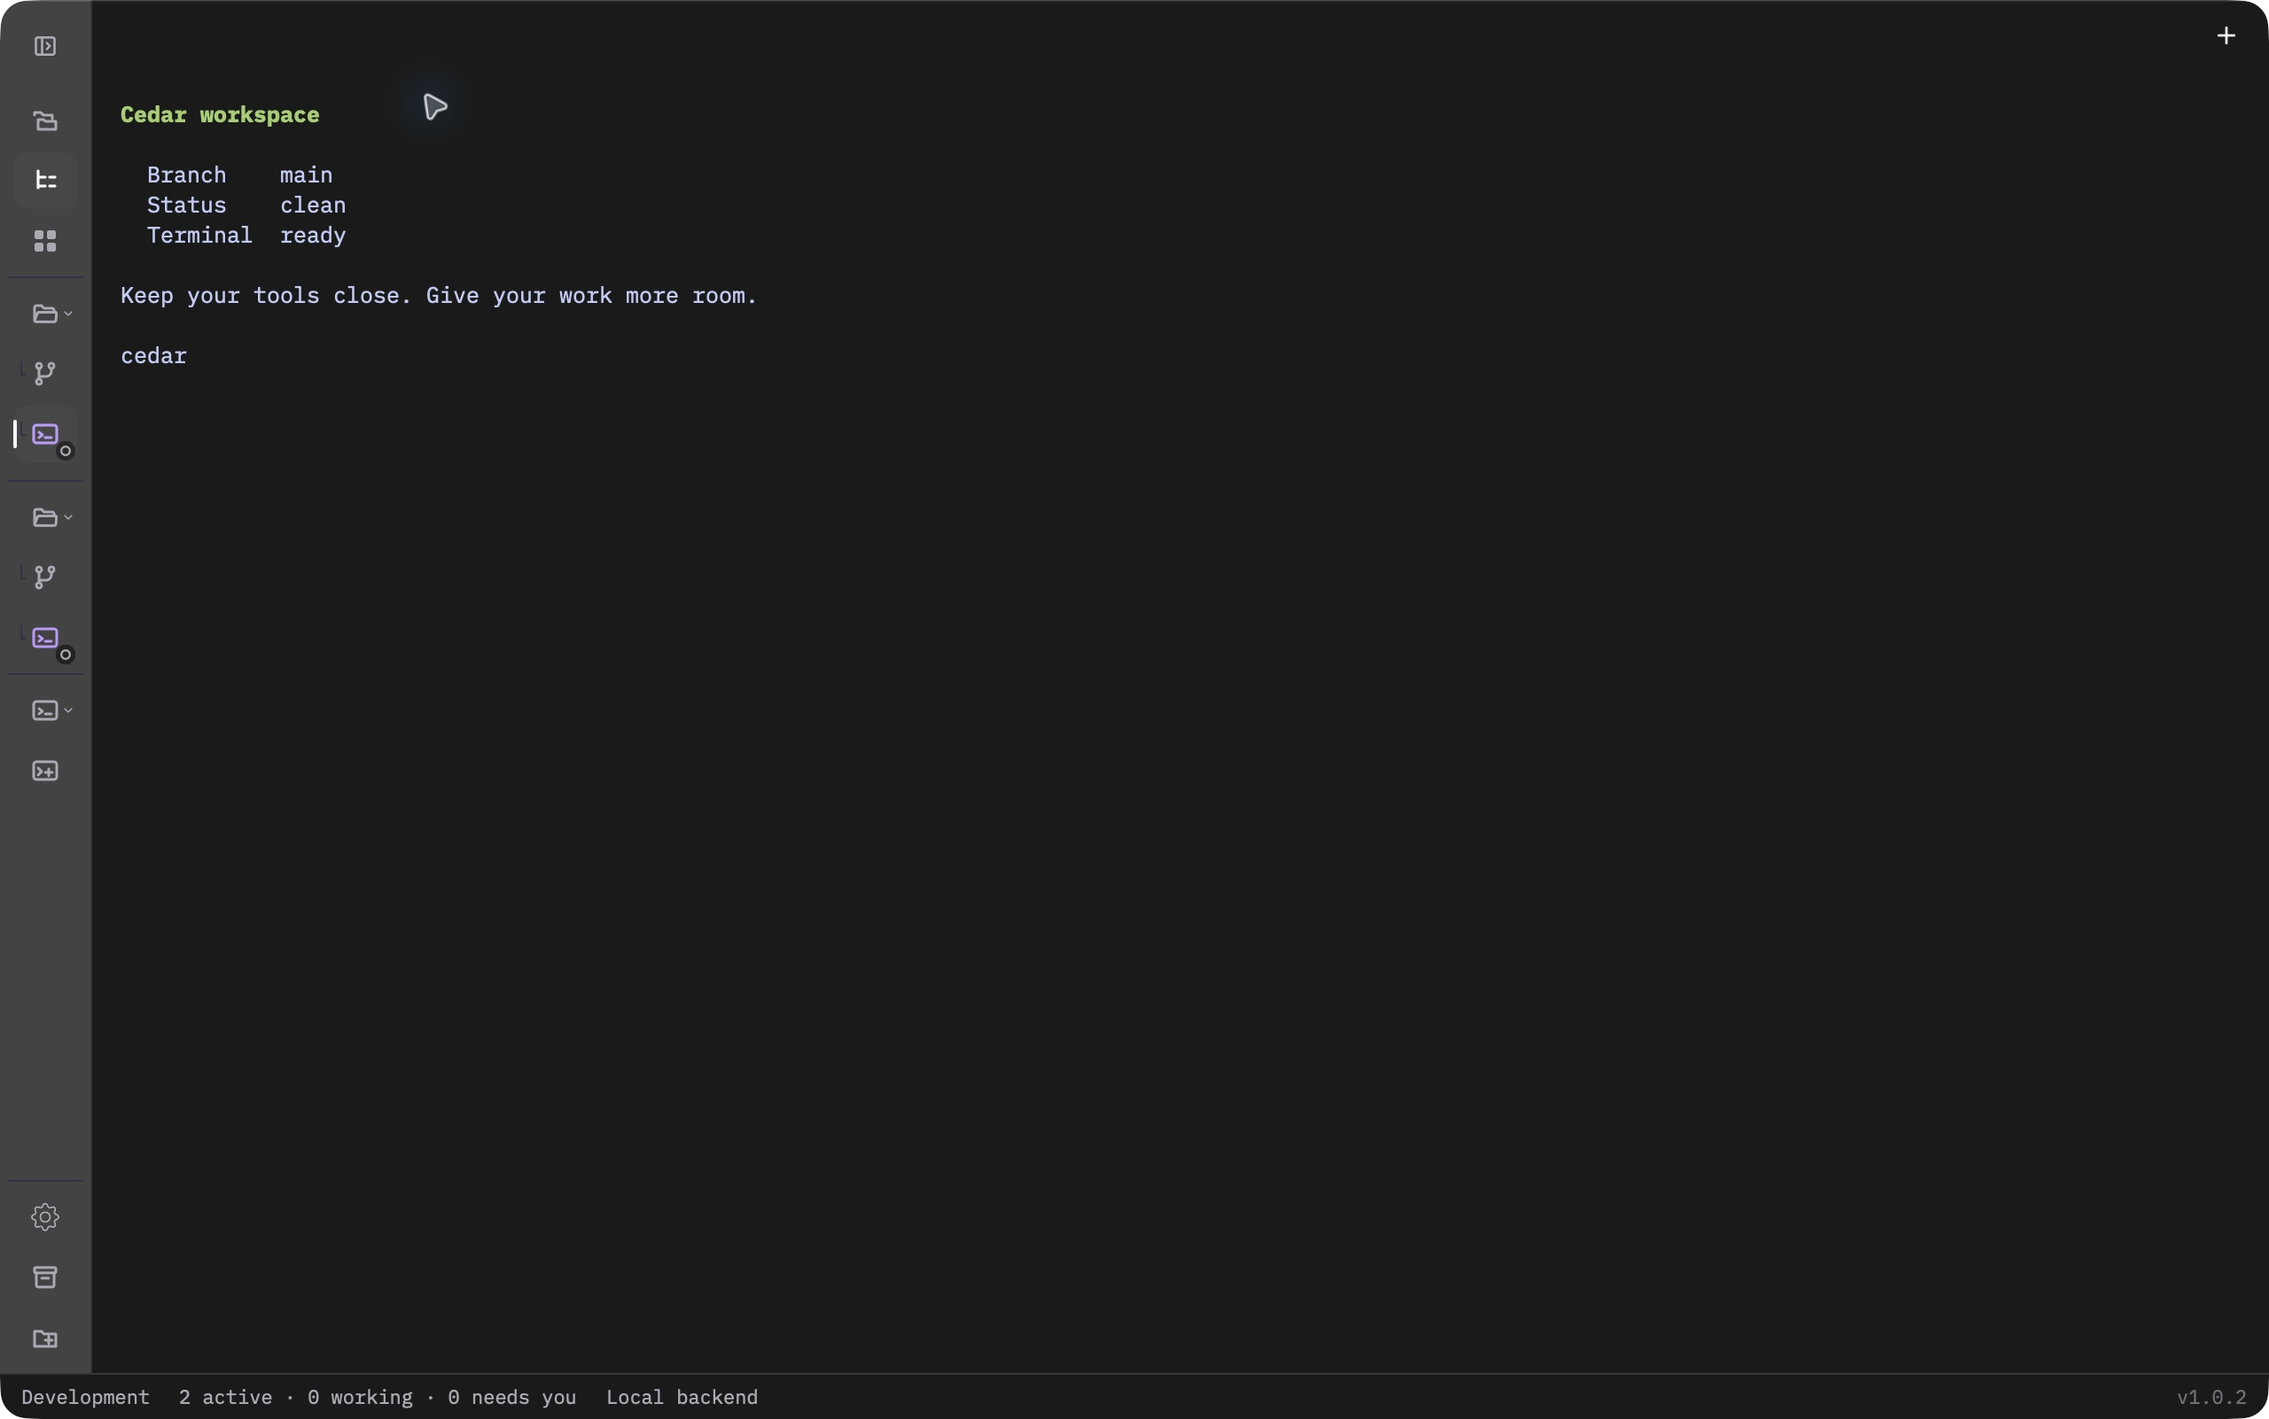
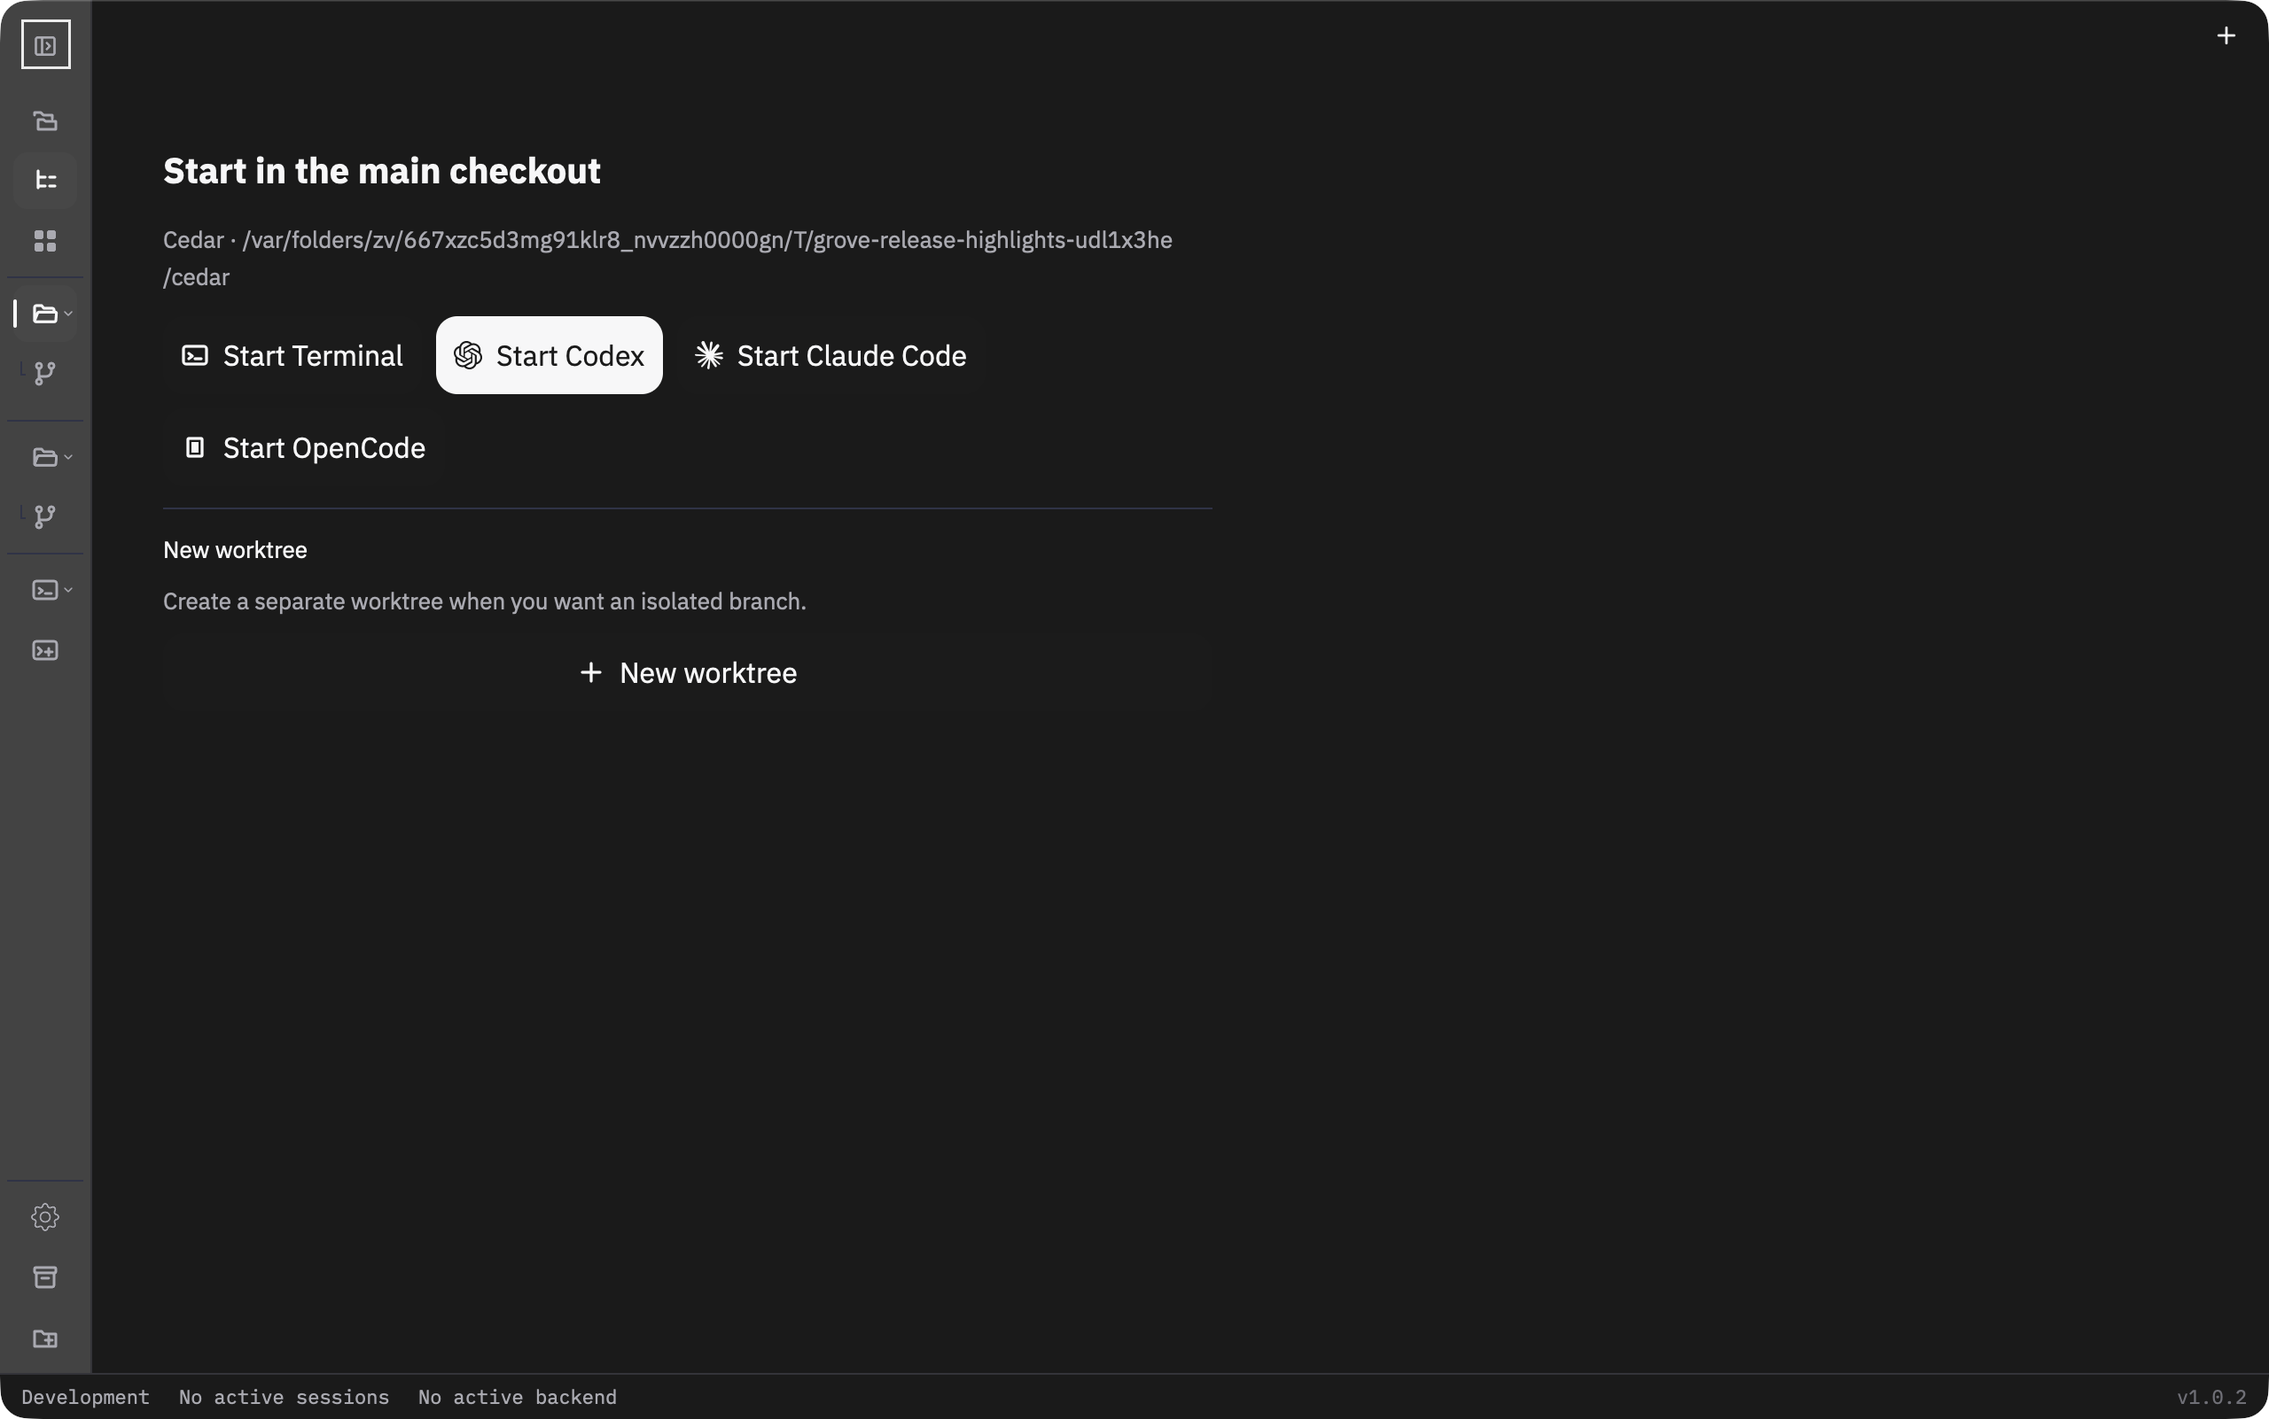
Add zoomed expand-collapse GIF to release highlights

diff --git a/src/views/release_highlights.rs b/src/views/release_highlights.rs
@@ -217,9 +217,21 @@ impl Render for ReleaseCarousel {
                 let image_source = gpui::ImageSource::from(gpui::SharedString::from(source));
                 #[cfg(test)]
                 let image_source = self.image_source_override.clone().unwrap_or(image_source);
+                let image_width = (width - 2.0).max(0.0);
+                let (image_width, image_height, image_left, image_top) = match &slide.media.frame {
+                    Some(frame) => {
+                        let image_width = image_width * frame.zoom;
+                        let image_height = image_width / frame.aspect_ratio;
+                        (image_width, image_height,
+                            -(image_width - (width - 2.0)).max(0.0) * frame.position_x,
+                            -(image_height - media_height).max(0.0) * frame.position_y)
+                    }
+                    None => (image_width, media_height, 0.0, 0.0),
+                };
+                let image_radius = RADIUS_CHROME * slide.media.frame.as_ref().map_or(1.0, |frame| frame.zoom);
                 let retry_source = image_source.clone();
                 let carousel = cx.entity().downgrade();
-                img(image_source).id(format!("highlights-image-{}-{}", self.index, animated)).debug_selector(|| "highlights-image".into()).absolute().inset_0().w(rpx((width - 2.0).max(0.0))).h(rpx(media_height)).rounded(rpx(RADIUS_CHROME)).object_fit(gpui::ObjectFit::Contain)
+                img(image_source).id(format!("highlights-image-{}-{}", self.index, animated)).debug_selector(|| "highlights-image".into()).absolute().left(rpx(image_left)).top(rpx(image_top)).w(rpx(image_width)).h(rpx(image_height)).rounded(rpx(image_radius)).object_fit(gpui::ObjectFit::Contain)
                     .with_fallback(move || {
                         let source = retry_source.clone(); let key_source = retry_source.clone(); let key_carousel = carousel.clone(); let carousel = carousel.clone();
                         div().size_full().flex().flex_col().gap(rpx(SPACE_LG)).items_center().justify_center().text_color(c::FG_DIM())
@@ -232,6 +244,26 @@ impl Render for ReleaseCarousel {
             },
             _ => unavailable(),
         });
+        if let Some(frame) = &slide.media.frame {
+            if let Some([left, top, marker_width, marker_height]) = frame.highlight {
+                let image_width = (width - 2.0).max(0.0) * frame.zoom;
+                let image_height = image_width / frame.aspect_ratio;
+                let image_left = -(image_width - (width - 2.0)).max(0.0) * frame.position_x;
+                let image_top = -(image_height - media_height).max(0.0) * frame.position_y;
+                media = media.child(
+                    div()
+                        .debug_selector(|| "highlights-image-focus".into())
+                        .absolute()
+                        .left(rpx(image_left + image_width * left))
+                        .top(rpx(image_top + image_height * top))
+                        .w(rpx(image_width * marker_width))
+                        .h(rpx(image_height * marker_height))
+                        .rounded(rpx(RADIUS_CONTROL))
+                        .border_2()
+                        .border_color(c::FG()),
+                );
+            }
+        }
         match slide.media.kind {
             MediaKind::Gif if !cx.reduce_motion() => {
                 media = media.child(
@@ -467,6 +499,7 @@ mod tests {
                         alt: "Feature preview".into(),
                         poster: None,
                         captions: None,
+                        frame: None,
                     },
                 })
                 .collect(),
@@ -532,11 +565,18 @@ mod tests {
     #[gpui::test]
     fn decoded_screenshot_stays_inside_media_and_before_copy(cx: &mut gpui::TestAppContext) {
         cx.update(gpui_component::init);
-        let release = manifest().unwrap().release("1.0.2").unwrap().clone();
-        let bytes = Assets::get(&release.slides[0].media.src)
-            .unwrap()
-            .data
-            .into_owned();
+        let mut release = manifest().unwrap().release("1.0.2").unwrap().clone();
+        release.slides[0].media.frame = None;
+        let bytes = Assets::get(
+            release.slides[0]
+                .media
+                .poster
+                .as_ref()
+                .unwrap_or(&release.slides[0].media.src),
+        )
+        .unwrap()
+        .data
+        .into_owned();
         let image = std::sync::Arc::new(gpui::Image::from_bytes(gpui::ImageFormat::Png, bytes));
         let image_for_view = image.clone();
         let (_, cx) = cx.add_window_view(move |window, cx| {
@@ -576,6 +616,63 @@ mod tests {
                 copy.bottom() <= footer.top(),
                 "copy overlaps controls at {width}x{height}"
             );
+        }
+    }
+
+    #[gpui::test]
+    fn authored_zoom_keeps_expand_control_visible_without_overlapping_copy(
+        cx: &mut gpui::TestAppContext,
+    ) {
+        cx.update(gpui_component::init);
+        let release = manifest().unwrap().release("1.0.2").unwrap().clone();
+        let image = std::sync::Arc::new(gpui::Image::from_bytes(
+            gpui::ImageFormat::Gif,
+            Assets::get(&release.slides[0].media.src)
+                .unwrap()
+                .data
+                .into_owned(),
+        ));
+        let image_for_view = image.clone();
+        let (_, cx) = cx.add_window_view(move |window, cx| {
+            let mut carousel = ReleaseCarousel::new(release, window, cx);
+            carousel.image_source_override = Some(image_for_view.into());
+            carousel.playing = true;
+            carousel
+        });
+        for (width, height) in [(707.0, 629.0), (1280.0, 800.0), (360.0, 480.0)] {
+            cx.simulate_resize(gpui::size(gpui::px(width), gpui::px(height)));
+            cx.update(|window, cx| {
+                let _ = window.draw(cx);
+            });
+            cx.run_until_parked();
+            cx.update(|window, cx| {
+                let _ = window.draw(cx);
+                let decoded = image
+                    .clone()
+                    .get_render_image(window, cx)
+                    .expect("authored GIF must decode");
+                assert_eq!(decoded.frame_count(), 2);
+            });
+            let media = cx.debug_bounds("highlights-media").unwrap();
+            let screenshot = cx.debug_bounds("highlights-image").unwrap();
+
+            let copy = cx.debug_bounds("highlights-copy").unwrap();
+            assert!(
+                screenshot.size.width > media.size.width * 2.0,
+                "authored zoom must magnify screenshot"
+            );
+            // Real capture coordinates of the expand and collapse controls. Both must
+            // stay visible in the authored crop as the two-state animation alternates.
+            for (x, y) in [
+                (50.0 / 2560.0, 50.0 / 1602.0),
+                (486.0 / 2560.0, 116.0 / 1602.0),
+            ] {
+                let x = screenshot.left() + screenshot.size.width * x;
+                let y = screenshot.top() + screenshot.size.height * y;
+                assert!(x >= media.left() && x <= media.right());
+                assert!(y >= media.top() && y <= media.bottom());
+            }
+            assert!(media.bottom() <= copy.top());
         }
     }
 

diff --git a/crates/grove-core/src/release_highlights.rs b/crates/grove-core/src/release_highlights.rs
@@ -35,6 +35,20 @@ pub struct HighlightMedia {
     pub poster: Option<String>,
     #[serde(default, skip_serializing_if = "Option::is_none")]
     pub captions: Option<String>,
+    #[serde(default, skip_serializing_if = "Option::is_none")]
+    pub frame: Option<ImageFrame>,
+}
+/// Authored screenshot framing; positions and highlight bounds use normalized coordinates.
+#[derive(Clone, Debug, Serialize, Deserialize)]
+#[serde(deny_unknown_fields)]
+pub struct ImageFrame {
+    pub zoom: f32,
+    pub aspect_ratio: f32,
+    pub position_x: f32,
+    pub position_y: f32,
+    /// Optional [left, top, width, height] in the original image.
+    #[serde(default, skip_serializing_if = "Option::is_none")]
+    pub highlight: Option<[f32; 4]>,
 }
 #[derive(Clone, Copy, Debug, PartialEq, Eq, Serialize, Deserialize)]
 #[serde(rename_all = "lowercase")]
@@ -108,6 +122,26 @@ impl Manifest {
                 {
                     return Err(invalid("media paths must be relative asset paths"));
                 }
+                if let Some(frame) = &media.frame {
+                    let normalized = |v: f32| v.is_finite() && (0.0..=1.0).contains(&v);
+                    if media.kind == MediaKind::Video
+                        || !frame.zoom.is_finite()
+                        || !(1.0..=8.0).contains(&frame.zoom)
+                        || !frame.aspect_ratio.is_finite()
+                        || !(0.1..=10.0).contains(&frame.aspect_ratio)
+                        || !normalized(frame.position_x)
+                        || !normalized(frame.position_y)
+                        || frame.highlight.is_some_and(|[x, y, w, h]| {
+                            ![x, y, w, h].into_iter().all(normalized)
+                                || w == 0.0
+                                || h == 0.0
+                                || x + w > 1.0
+                                || y + h > 1.0
+                        })
+                    {
+                        return Err(invalid("invalid image framing"));
+                    }
+                }
                 if (media.kind != MediaKind::Image && media.poster.is_none())
                     || (media.kind != MediaKind::Video && media.captions.is_some())
                 {
@@ -171,6 +205,34 @@ mod tests {
         v["releases"][0]["enabled"] = false.into();
         let m = parse(&v).unwrap();
         assert!(!m.release("1.0.2").unwrap().should_auto_open("1.0.2", &[]));
+    }
+    #[test]
+    fn validates_optional_image_framing() {
+        let mut v = value();
+        let frame = serde_json::json!({"zoom":2.8,"aspect_ratio":1.597,"position_x":0.0,"position_y":0.0,"highlight":[0.009,0.014,0.022,0.035]});
+        v["releases"][0]["slides"][0]["media"]["frame"] = frame.clone();
+        assert!(parse(&v).is_ok());
+        for (field, bad) in [
+            ("zoom", 0.5),
+            ("zoom", 9.0),
+            ("aspect_ratio", 0.0),
+            ("position_x", -0.1),
+            ("position_y", 1.1),
+        ] {
+            let mut invalid = v.clone();
+            invalid["releases"][0]["slides"][0]["media"]["frame"][field] = bad.into();
+            assert!(parse(&invalid).is_err(), "accepted {field}={bad}");
+        }
+        v["releases"][0]["slides"][0]["media"]["frame"]["highlight"] =
+            serde_json::json!([0.9, 0.0, 0.2, 0.1]);
+        assert!(parse(&v).is_err());
+        v["releases"][0]["slides"][0]["media"]["frame"] = frame;
+        v["releases"][0]["slides"][0]["media"]["kind"] = "gif".into();
+        v["releases"][0]["slides"][0]["media"]["poster"] = "highlights/poster.png".into();
+        assert!(parse(&v).is_ok());
+        v["releases"][0]["slides"][0]["media"]["kind"] = "video".into();
+        v["releases"][0]["slides"][0]["media"]["poster"] = "highlights/poster.png".into();
+        assert!(parse(&v).is_err());
     }
     #[test]
     fn rejects_unsafe_paths() {

diff --git a/src/views/shell.rs b/src/views/shell.rs
@@ -1612,6 +1612,7 @@ mod tests {
                     alt: "Test preview".into(),
                     poster: None,
                     captions: None,
+                    frame: None,
                 },
             }],
         }

diff --git a/README.md b/README.md
@@ -160,7 +160,7 @@ Release carousels are authored in `assets/highlights/manifest.json` and bundled 
 
 For an enabled release, Grove opens the media-first carousel once on first launch of that version and records that version as seen. You can dismiss it at any time. Other versions do not inherit that release's carousel. You can replay an enabled carousel from Settings → Changelog → View highlights.
 
-Choose two to four user-visible changes, write a benefit-led title and a short description, and capture the released UI using clean demo projects. Keep media under `assets/highlights/<version>/`; each slide needs a stable `id`, `title`, `description`, and `media` with `kind`, `src`, and descriptive `alt` text. Supported kinds are `image`, `gif`, and `video`. GIFs and videos require a `poster` image. GIFs are user-controlled; reduced motion keeps them still. Videos open in the system player from Play video. Keep screenshots and posters legible at the carousel size.
+Choose two to four user-visible changes, write a benefit-led title and a short description, and capture the released UI using clean demo projects. Keep media under `assets/highlights/<version>/`; each slide needs a stable `id`, `title`, `description`, and `media` with `kind`, `src`, and descriptive `alt` text. Supported kinds are `image`, `gif`, and `video`. GIFs and videos require a `poster` image. GIFs are user-controlled; reduced motion keeps them still. Videos open in the system player from Play video. Keep screenshots and posters legible at the carousel size. Images and GIFs may optionally include `frame` with `zoom` (1–8), the source `aspect_ratio`, and `position_x` / `position_y` (0–1, from left/top to right/bottom). An optional `highlight: [left, top, width, height]` outlines a feature using normalized coordinates in the source image. Framed images and GIFs zoom within the clipped media area; omitted framing preserves the full image. GIF posters must use the same dimensions and framing as the animation.
 
 To test a draft without consuming its first-launch state, use a debug build:
 
@@ -169,6 +169,8 @@ GROVE_HIGHLIGHTS_DEBUG=1 GROVE_HIGHLIGHTS_VERSION=1.0.2 cargo run
 ```
 
 `GROVE_HIGHLIGHTS_DEBUG=1` opens the selected carousel at every launch of a debug build, including disabled drafts. `GROVE_HIGHLIGHTS_VERSION` selects an authored version for preview; it does not change normal release selection. Settings → Changelog → Preview release highlights reopens it as often as needed; in a debug build, `cmd+shift+h` on macOS (`ctrl+shift+h` elsewhere) also opens the preview. Release builds ignore the debug override. Use `GROVE_CONFIG_DIR=/tmp/grove-highlights-test` and `GROVE_TELEMETRY=off` for an isolated review workspace.
+
+The first `1.0.2` slide uses a two-state GIF captured from the native app, with a 1.5-second hold on the expanded and collapsed sidebar. The outlined toggle follows its real position in each state; Play animation starts the loop.
 
 The `1.0.2` entry is a disabled draft of changes since published `v1.0.1`: the compact sidebar, moving projects between workspaces, and confirmation before closing running sessions. Enable it when those highlights are ready to ship.
 
